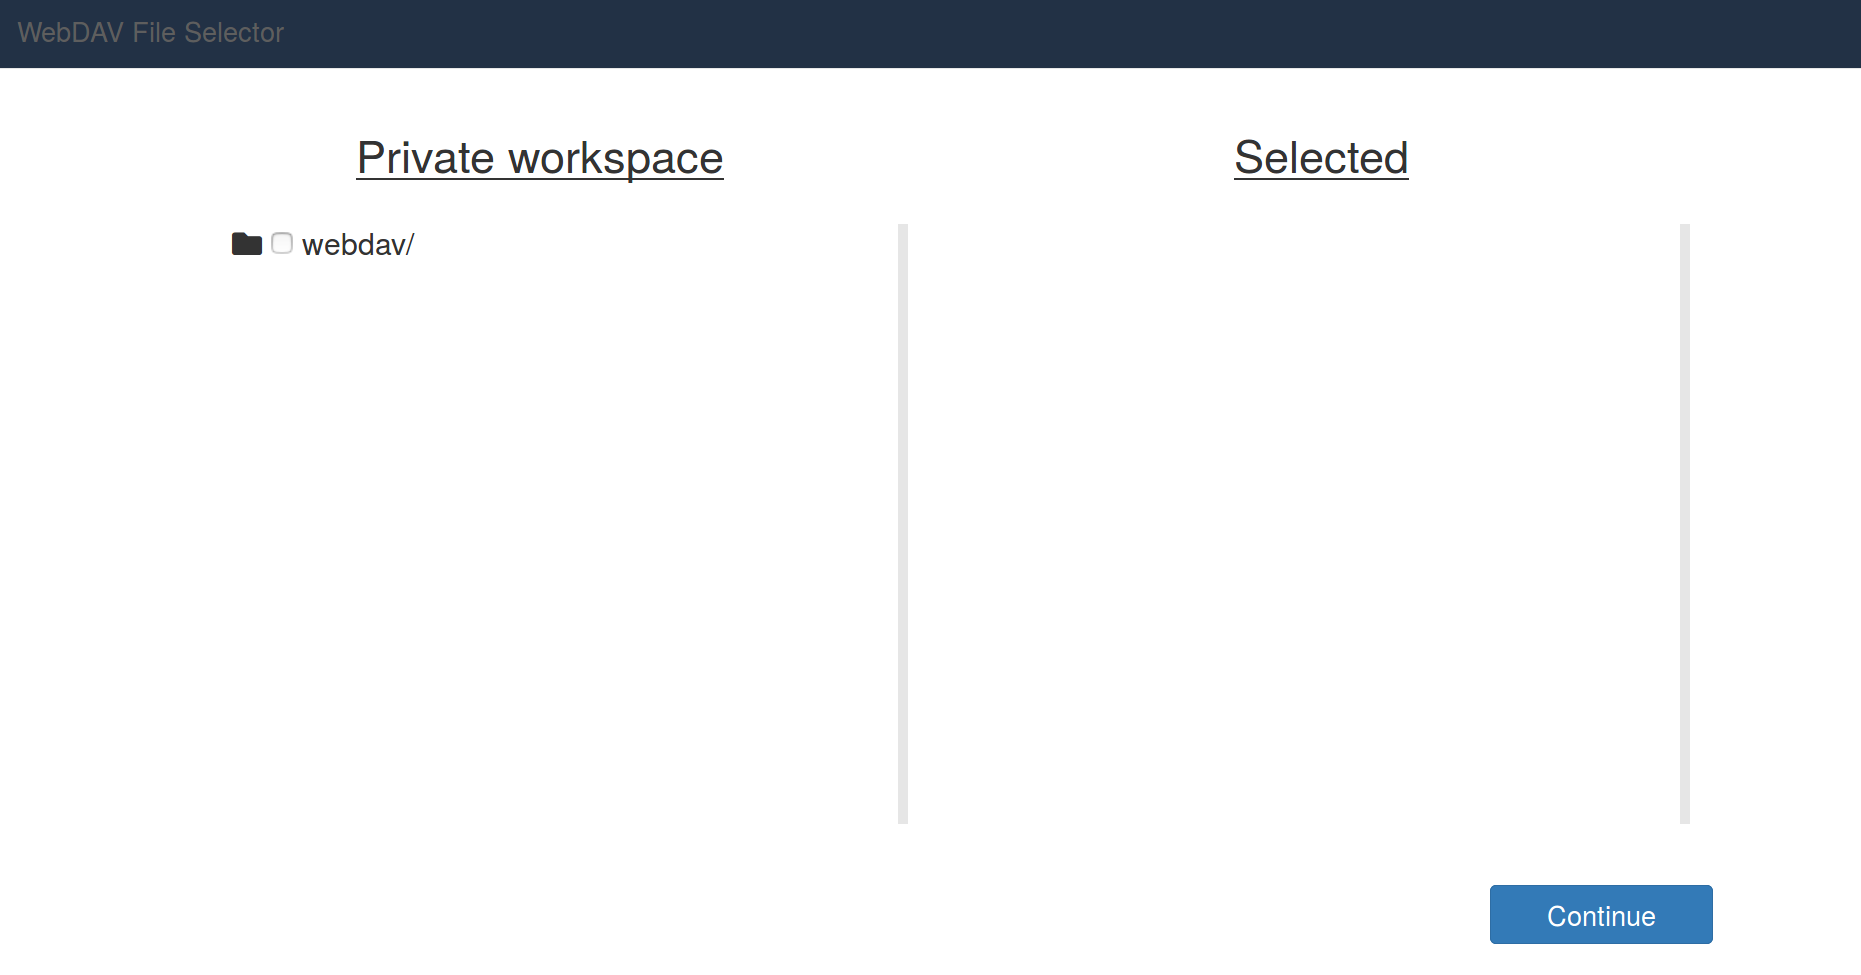
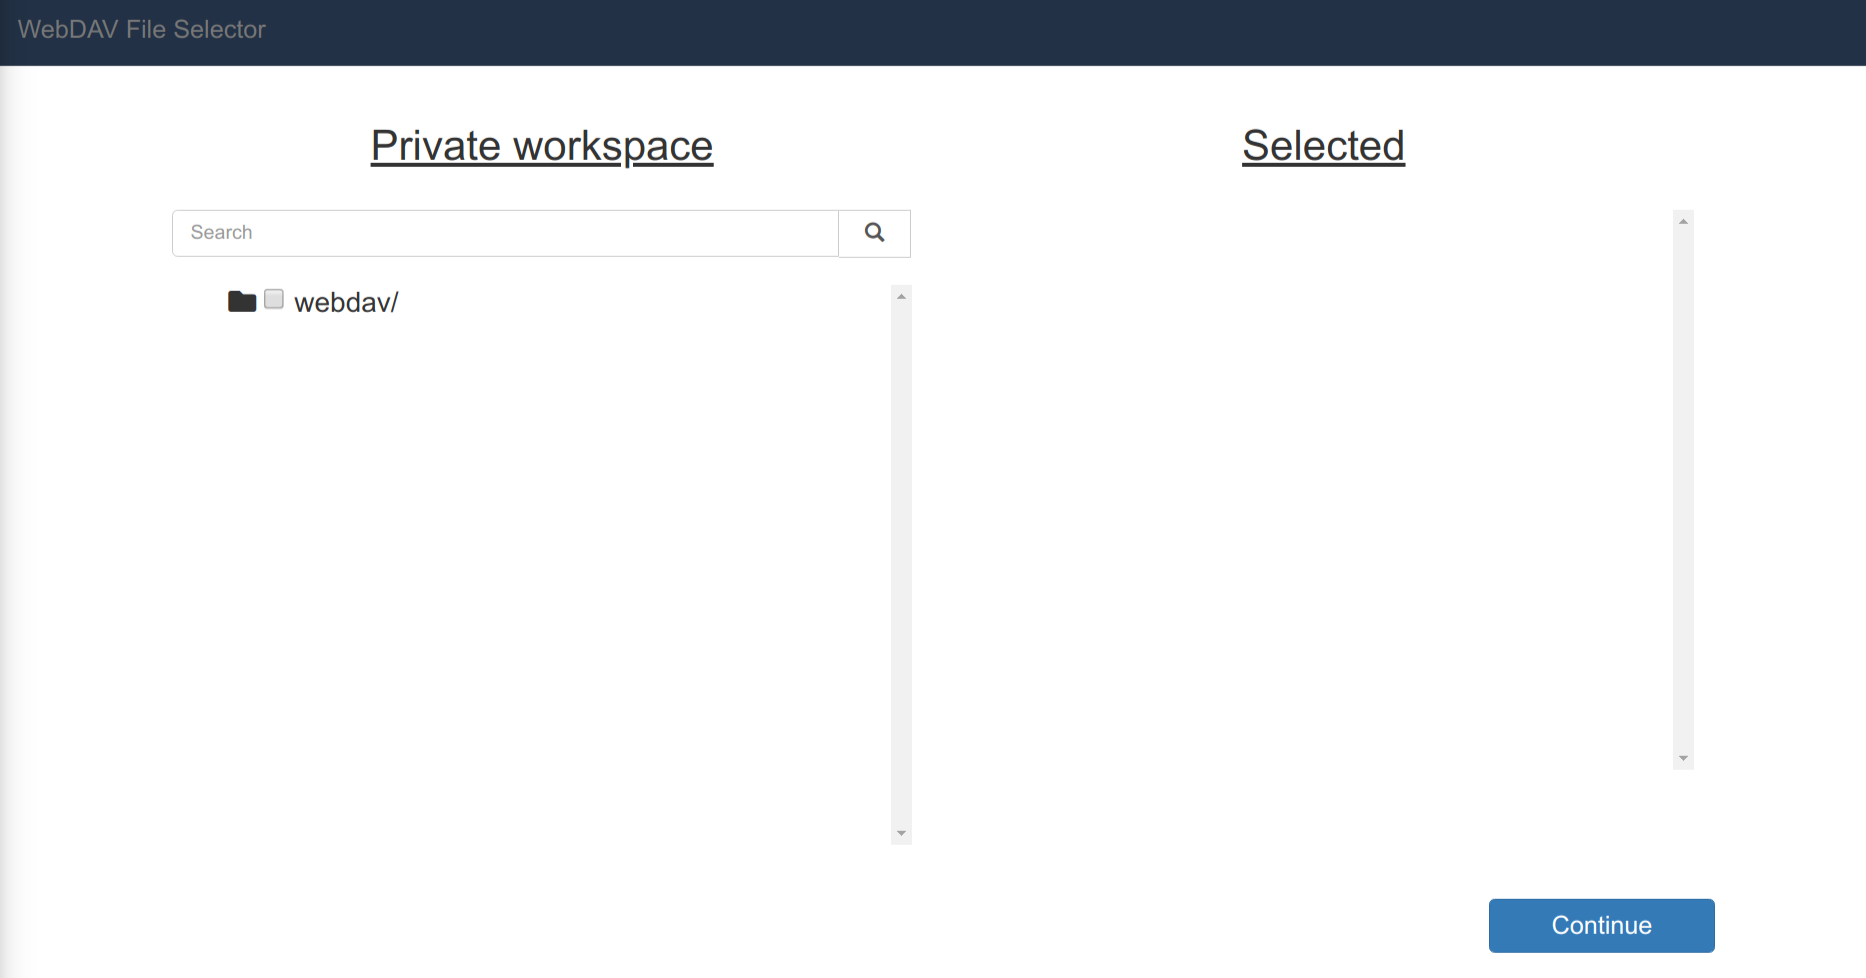
add search function

diff --git a/src/css/webdav-fileselector.css b/src/css/webdav-fileselector.css
@@ -24,3 +24,22 @@
 .navbar-custom {
     background-color: #223145!important;
 }
+
+.stylish-input-group .input-group-addon{
+    background: white !important;
+}
+.stylish-input-group .form-control{
+    //border-right:0;
+    box-shadow:0 0 0;
+    border-color:#ccc;
+}
+.stylish-input-group button{
+    border:0;
+    background:transparent;
+}
+
+.h-scroll {
+    background-color: #fcfdfd;
+    height: 260px;
+    overflow-y: scroll;
+}

diff --git a/src/views/client.blade.php b/src/views/client.blade.php
@@ -110,6 +110,19 @@
 			<div class="col-sm-6 text-center">
 			    <h2><u>Private workspace</u></h2>
 			    <br>
+			    <div class="dropdown">
+				<div class="input-group stylish-input-group">
+				    <input id="search_input" type="text" class="form-control" placeholder="Search" onclick="this.select()">
+				    <span class="input-group-addon" style="border-left:0">
+					<button type="submit" id="search_button">
+					    <span class="glyphicon glyphicon-search"></span>
+					</button>
+				    </span>
+				    <ul class="dropdown-menu h-scroll" id="search_output">
+				    </ul>
+				</div>
+			    </div>
+			    <br>
 			    <span class="text-left" id="result">
 			    </span>
 			</div>
@@ -142,16 +155,16 @@
 			    
 	</div>
 
-
-	<script>
-	 $(document).ready(function() {
-	     var webdav_auto = {{ $webdav_auto }};
-	     if (webdav_auto) {
-		 $("#getb2drop_button").trigger("click")
-	     }
-	 });
-	</script>
-
+	@if ($webdav_auto)
+	    <script>
+	     $(document).ready(function() {
+		 var webdav_auto = {{ $webdav_auto }};
+		 if (webdav_auto) {
+		     $("#getb2drop_button").trigger("click")
+		 }
+	     });
+	    </script>
+	@endif
 
 
 

diff --git a/src/WebdavFileselectorController.php b/src/WebdavFileselectorController.php
@@ -120,13 +120,13 @@ class WebdavFileselectorController extends Controller
             
             if ($this_type == "folder") {
                 //$data[] = '<li id="item1" data-id="test1">' . $hyphen . $match_folder[0] . '</li>';
-                $data[] = '<li data-id="' . $this_file  . '">' . $hyphen . $match_folder[0] . '</li>'; 
+                $data[] = '<li data-id="' . $this_file  . '">' . $hyphen . urldecode($match_folder[0]) . '</li>'; 
             }
 
             
             if ($this_type == "file") {
                 //$data[] = '<li id="item1" data-id="test1">' . $hyphen . $match_file[0] . '</li>';
-                $data[] = '<li data-id="' . $this_file  . '">' . $hyphen . $match_file[0] . '</li>'; 
+                $data[] = '<li data-id="' . $this_file  . '">' . $hyphen . urldecode($match_file[0]) . '</li>'; 
             }
 
 
